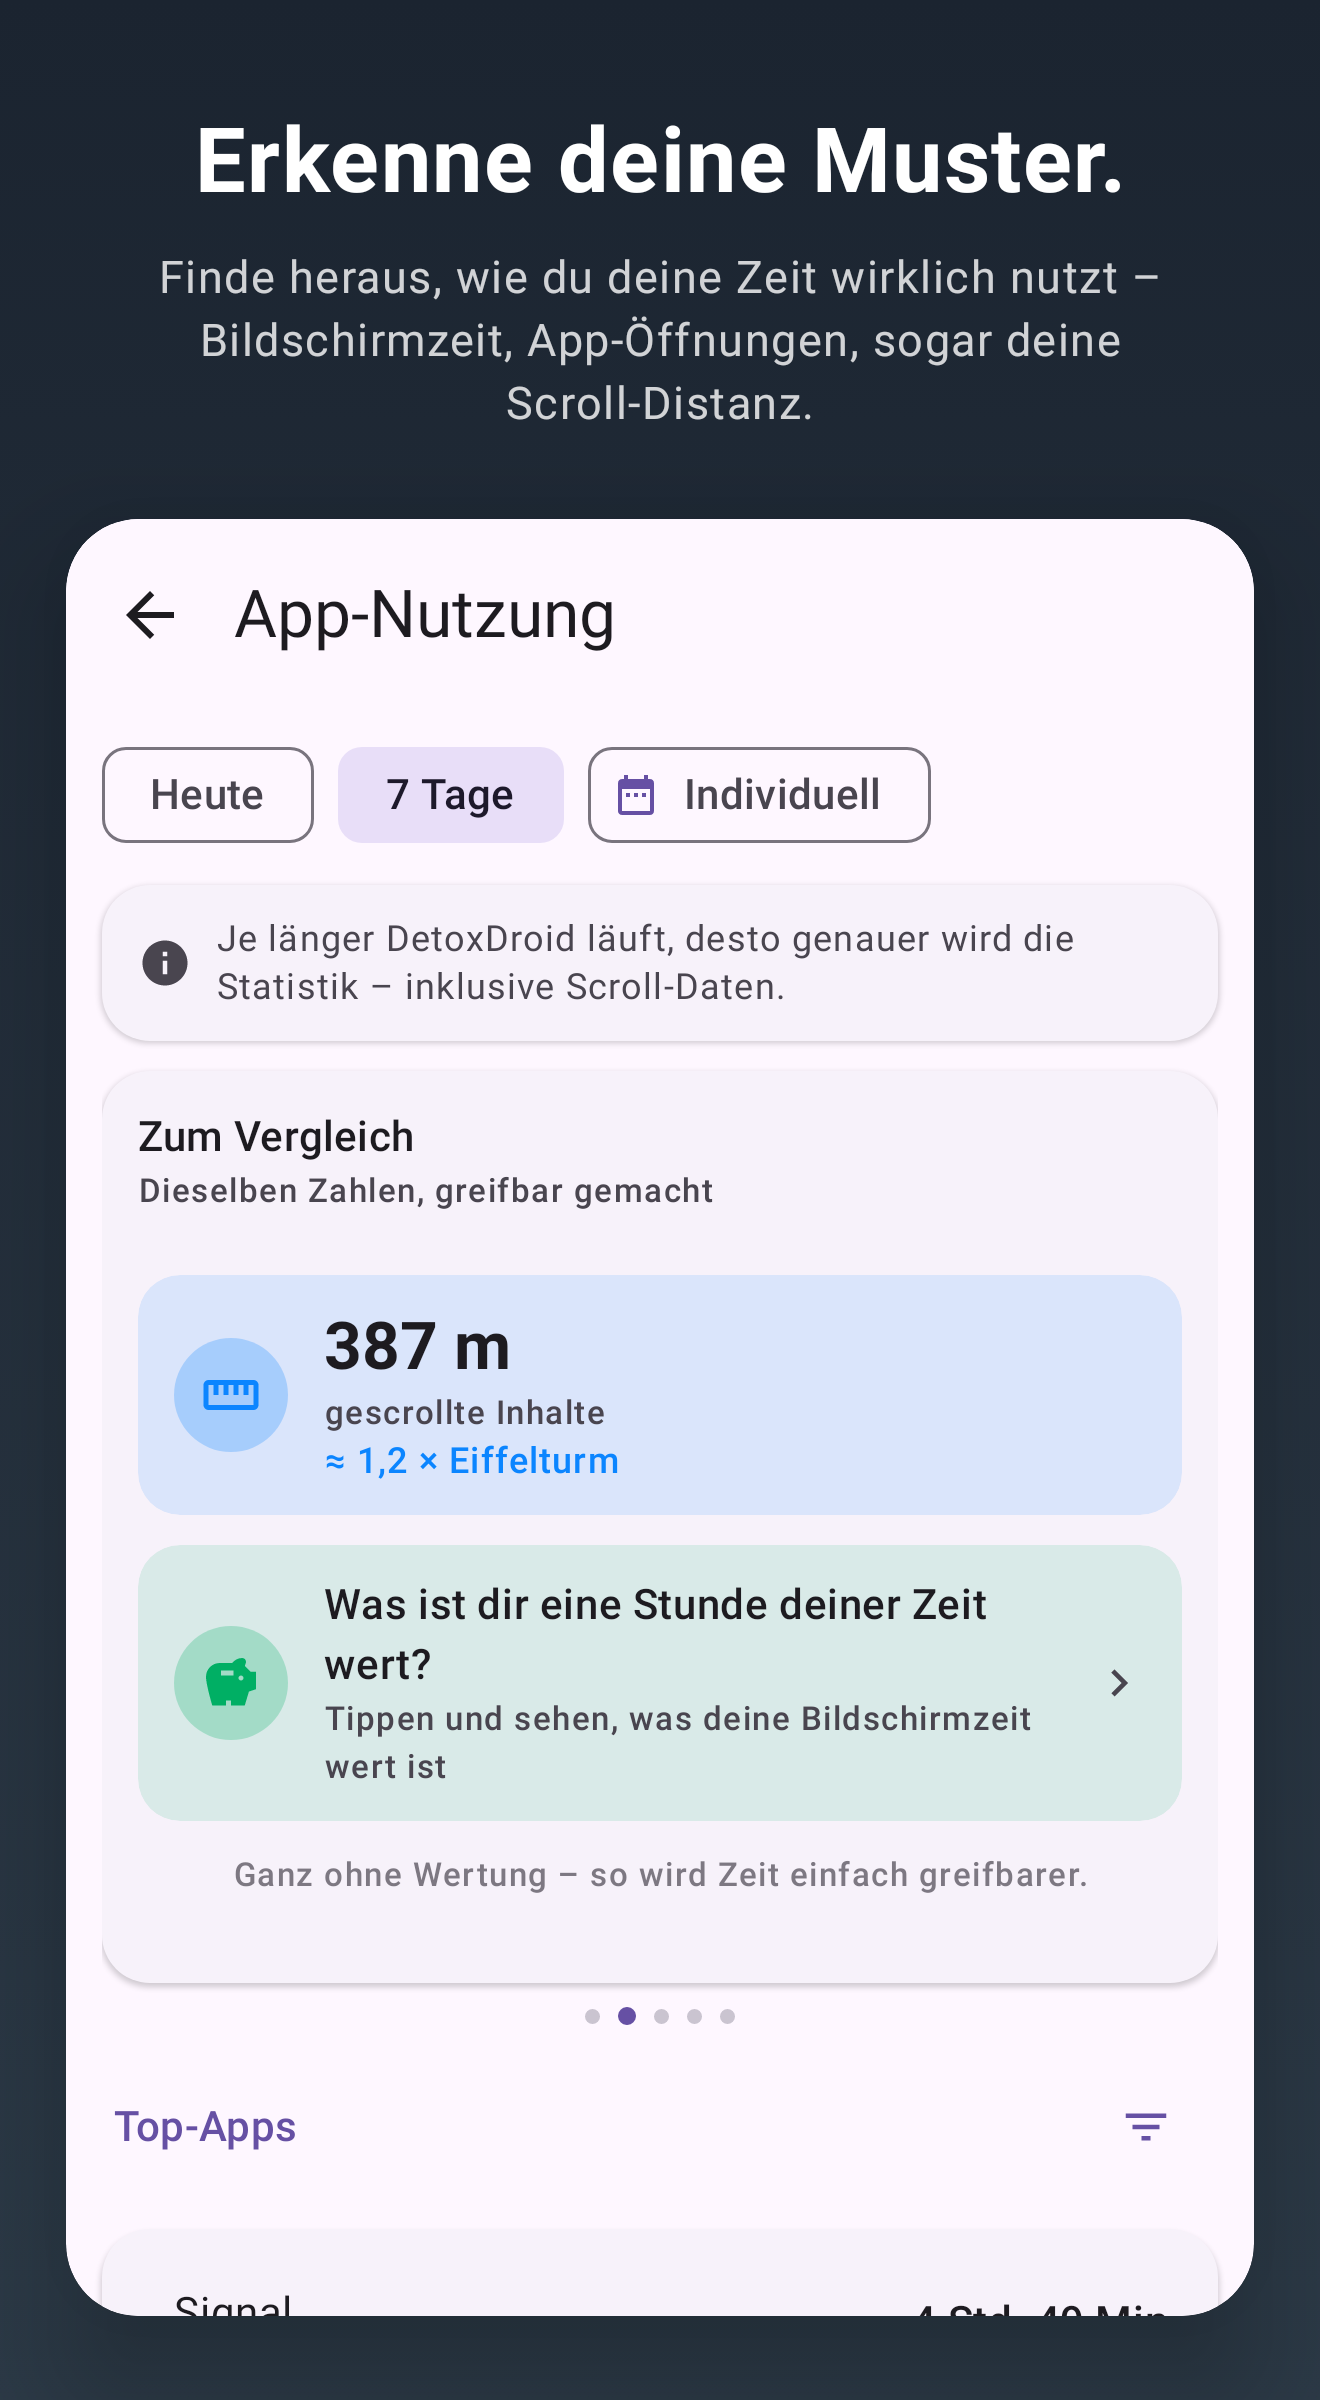
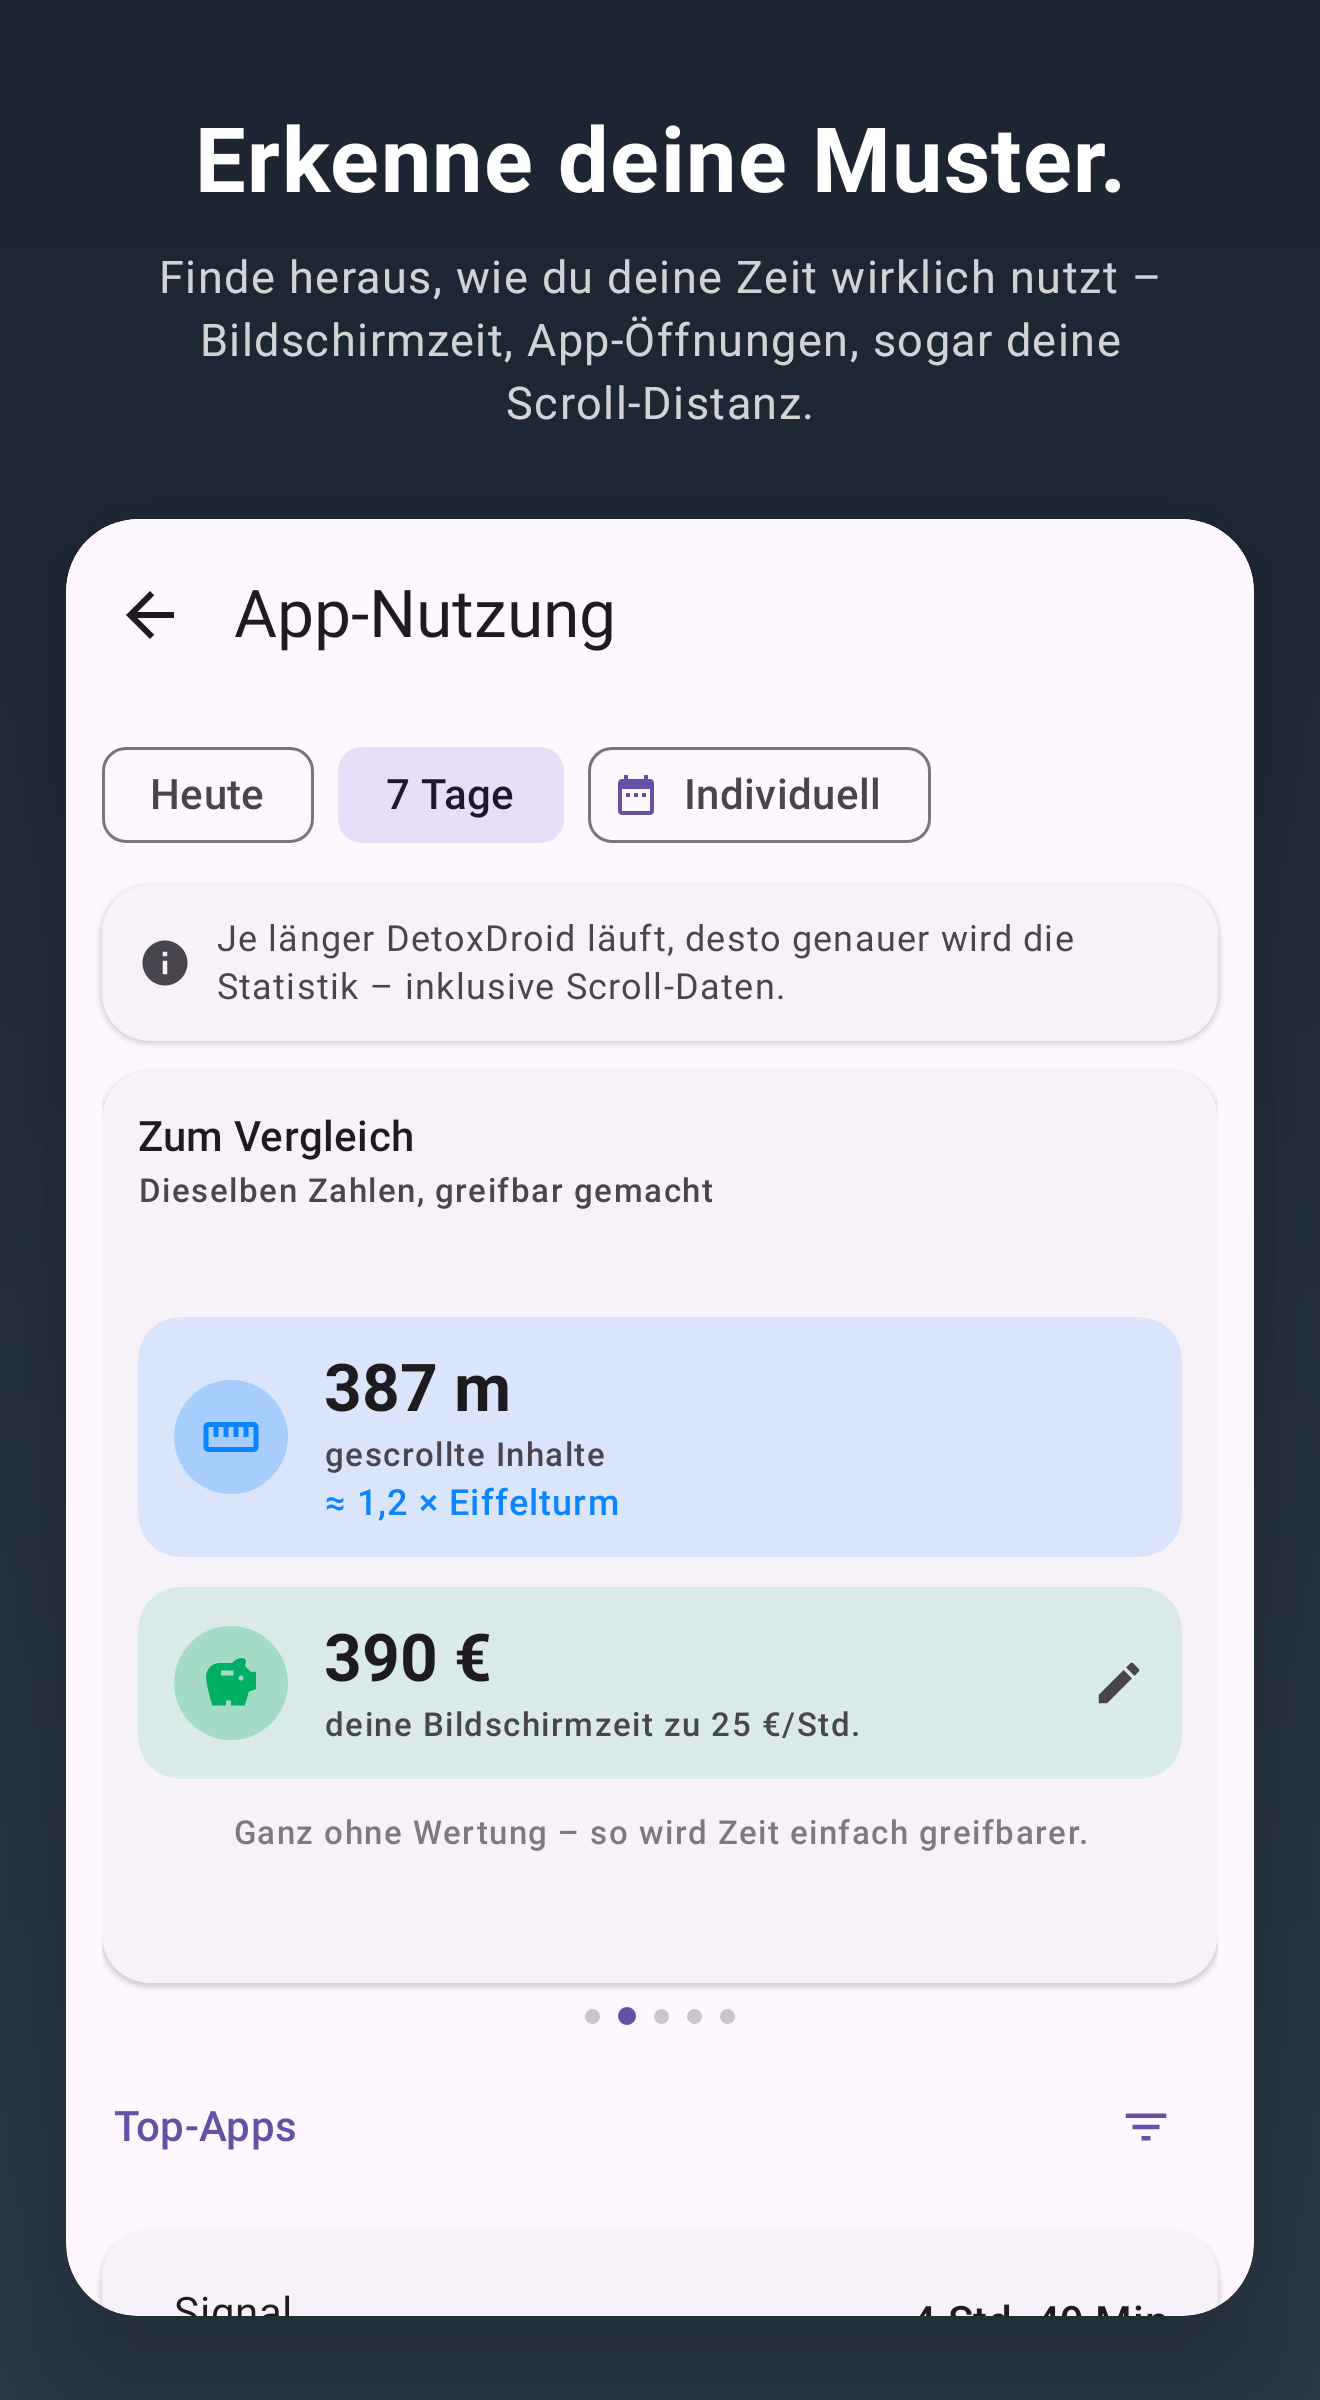
test(screenshot): set hourly rate for usage stats in the In Perspective card

Changed region(s): [[0.0932, 0.5312, 0.9008, 0.7812]]

diff --git a/app/src/test/java/com/flx_apps/digitaldetox/screenshot/ScreenshotSeed.kt b/app/src/test/java/com/flx_apps/digitaldetox/screenshot/ScreenshotSeed.kt
@@ -17,6 +17,7 @@ import com.flx_apps.digitaldetox.features.PauseButtonFeature
 import com.flx_apps.digitaldetox.premium.PremiumManager
 import com.flx_apps.digitaldetox.system_integration.DetoxDroidAccessibilityService
 import com.flx_apps.digitaldetox.system_integration.DetoxDroidState
+import com.flx_apps.digitaldetox.ui.screens.usage_stats.UsageStatsSettings
 import org.robolectric.Shadows.shadowOf
 import org.robolectric.shadows.ShadowUsageStatsManager
 import java.time.LocalDate
@@ -55,6 +56,9 @@ object ScreenshotSeed {
         PauseButtonFeature.isActivated = true
         // Unlock premium so the usage-stats timeframe selector shows without lock badges.
         PremiumManager.unlock()
+        // Give the opt-in "value of your time" reframing a rate, so the In Perspective card shows an
+        // actual amount (in the locale's currency) instead of the setup prompt.
+        UsageStatsSettings.hourlyRate = 25
     }
 
     /** Registers the fake apps with the package manager so their labels resolve to real names. */
